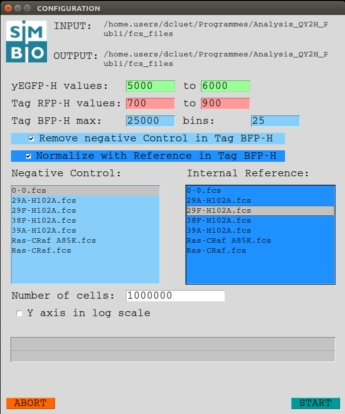
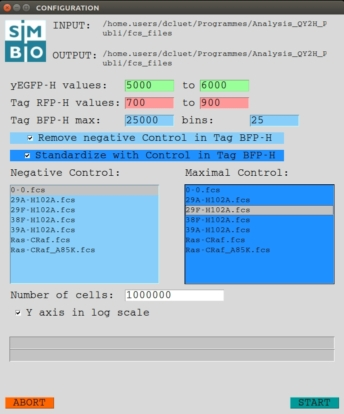
Update Readme

diff --git a/README.md b/README.md
@@ -181,9 +181,11 @@ The value `BFP bins` corresponds to the number of points you want to be displaye
 
 You can remove the background of the system by selecting `Remove negative Control`. Unchecking this option is useful to monitor the contribution of the background in your experiment. This information is helpful especially for the weakest interactors.
 
+As the sensitivity of the system may vary from one batch of yeast to an other, you can 'normalize' (to 1) the BFP signal using an `internal reference`. This will allow you to better compare various experiments.
+
 ![Controls](/doc/Select_Controls.jpg)
 
-You need to specify which sample file corresponds to your `negative` control, even if no background subtraction is applied. Typically, the negative control corresponds to a qY2H experiment performed with fluorescent empty BD-Bait and AD-Prey fusion proteins. In our work, this control is called 0-0.fcs.
+You need to specify which sample file corresponds to your `negative` control and `Internal reference`, even if no background subtraction or normalization are applied. Typically, the negative control corresponds to a qY2H experiment performed with fluorescent empty BD-Bait and AD-Prey fusion proteins. In our work, this control is called 0-0.fcs.
 
 The value `Number of cells` corresponds to the maximum number of cells to be loaded from your file before doing the dual gating in the `AD-Prey GFP` and `BD-Bait RFP` channels. **We highly recommend you to analyse at least 1 000 000 events to obtain a reliable affinity ladder.**
 
@@ -205,7 +207,12 @@ Click on `ABORT` to exit the program.
 
 *<span style="color:teal">5 Output files</span>*
 -
-The program generates two files. The `.csv` table contains the `mean BFP` value for each sample file (after subtraction of the negative control, if selected), and the `.pdf` report file encloses the qY2H affinity ladder graph. This two files have a common unique prefix based on the date and time of analysis.
+The program generates three files:
+- A `RESULT.png` image of the graph presented at the end of the analysis
+- A `.csv` table containing the `mean BFP` value for each sample file (after subtraction of the negative control and normalization, if selected)
+- A `.pdf` report file, that encloses the qY2H affinity ladder graph.
+
+The `.csv` and `.pdf` files have a common unique prefix based on the date and time of analysis. Moreover the data processing (*i.e.* background substraction and/or normalisation) is explicitly indicated
 
 *<span style="color:teal">6 Example files</span>*
 -
